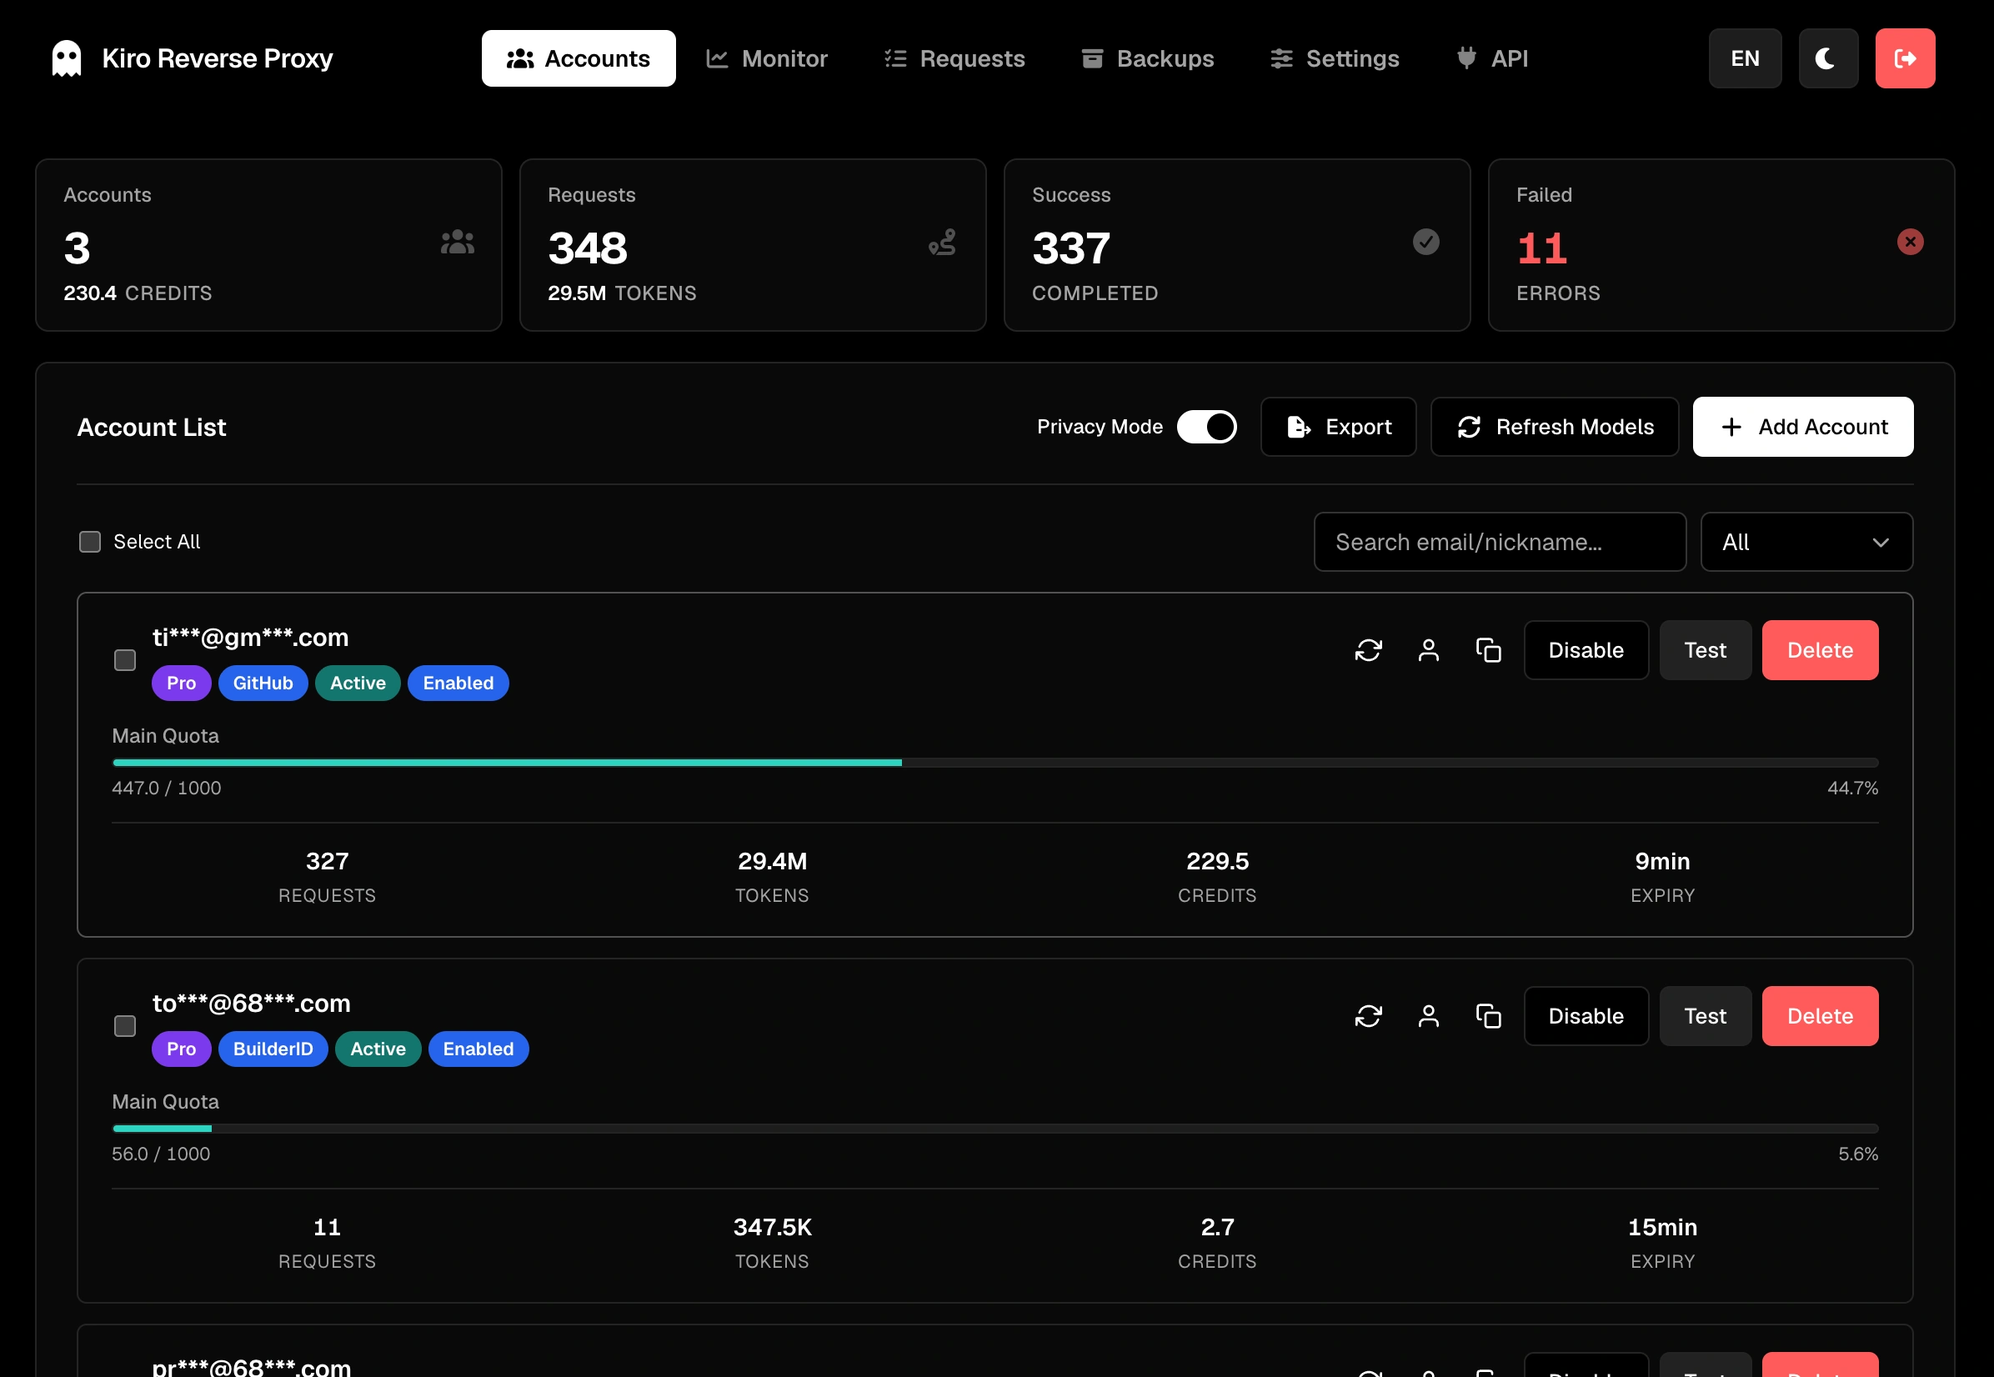
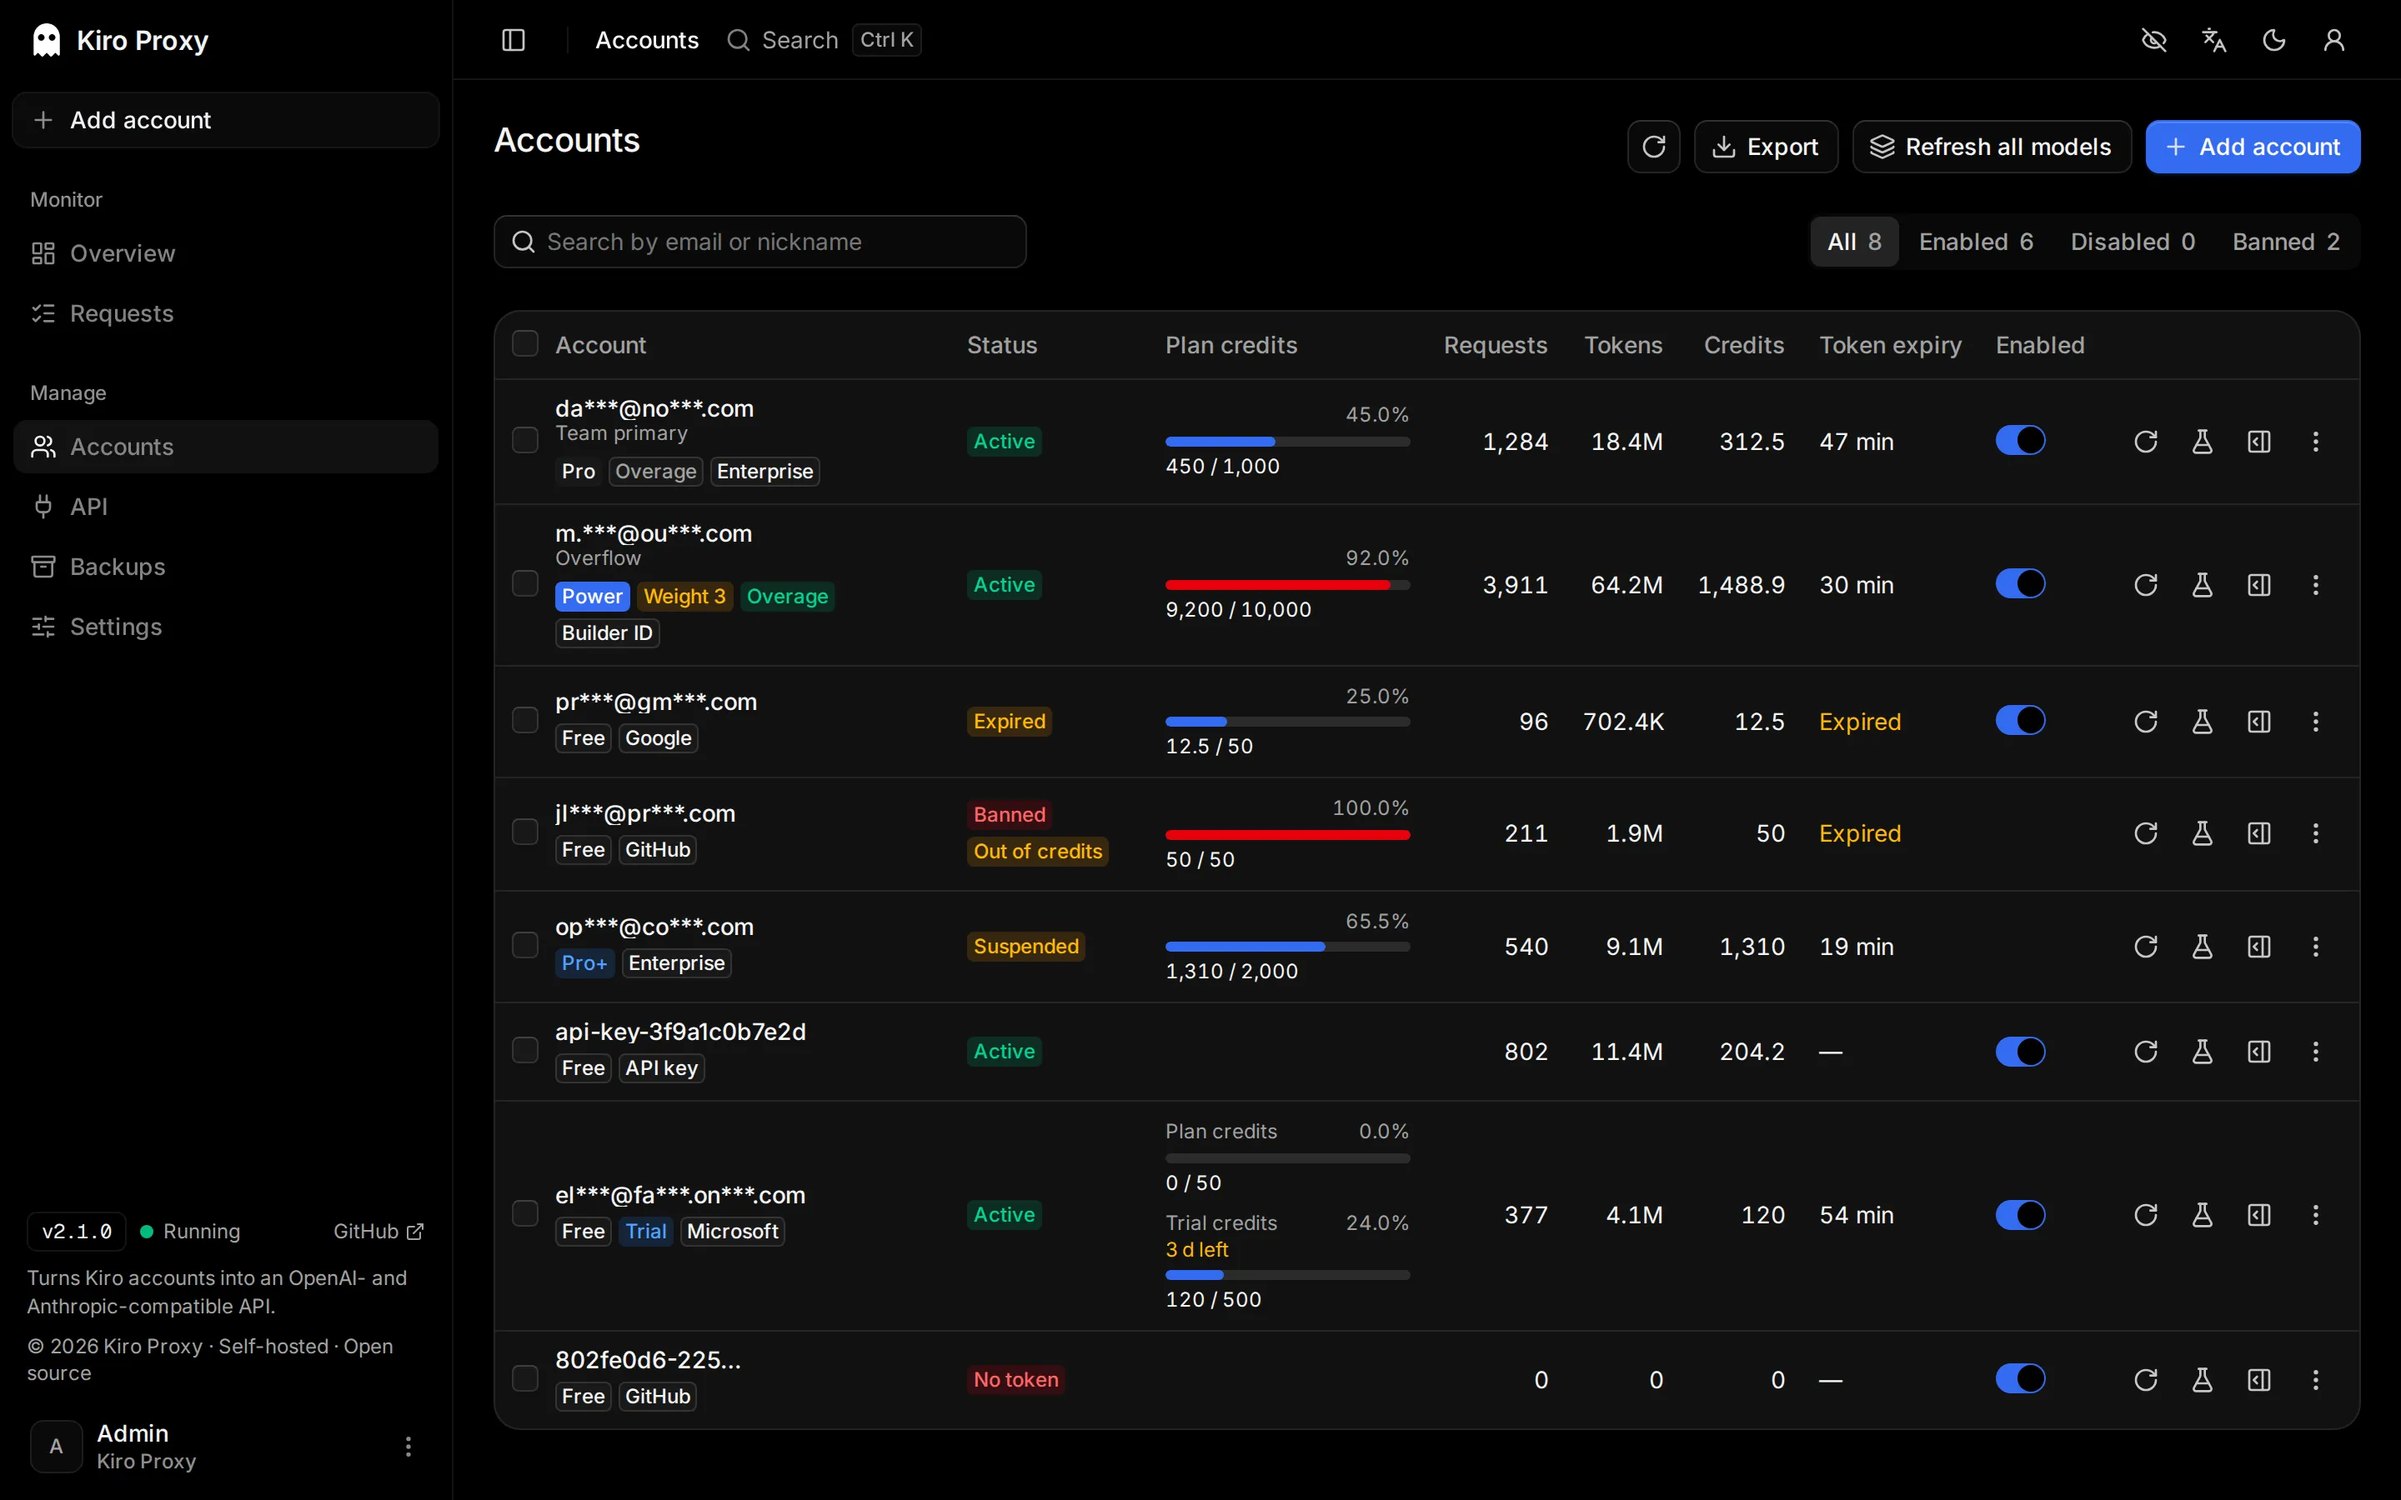
docs: refresh admin ui screenshots
Recapture every README screen from the new admin UI in mock mode
(1440x900 at 2x, light and dark). The overview pair replaces the old
monitor-*.webp images, and the captions follow the new screens.

Both READMEs now list the four UI languages: English, 简体中文,
Tiếng Việt and Português (Brasil).

diff --git a/README.md b/README.md
@@ -38,7 +38,7 @@
 1. Pools multiple Kiro accounts and load-balances requests with round-robin.
 2. Translates Anthropic `/v1/messages`, OpenAI `/v1/chat/completions`, and OpenAI `/v1/responses` calls to and from Kiro upstream.
 3. Refreshes access tokens automatically and streams Server-Sent Events end-to-end.
-4. Ships with a React admin panel, embedded in the binary, for account management, observability, and request audit.
+4. Ships with a React admin panel, embedded in the binary, for account management, observability, and request audit, in English, 简体中文, Tiếng Việt, and Português (Brasil).
 
 > [!IMPORTANT]
 > Single-binary local proxy. **Not** a hosted service, **not** affiliated with Amazon, AWS, or Kiro. You must own or be authorized to use every account you add to the pool.
@@ -56,14 +56,14 @@ If this project helps you, a Star would mean a lot.
         <source media="(prefers-color-scheme: dark)" srcset="screenshots/login-dark.webp">
         <img alt="Login" src="screenshots/login-light.webp" width="100%">
       </picture>
-      <br><sub><b>Login</b> — minimal, theme-aware sign-in</sub>
+      <br><sub><b>Login</b> — sign-in with theme and language switches</sub>
     </td>
     <td width="50%" align="center">
       <picture>
-        <source media="(prefers-color-scheme: dark)" srcset="screenshots/monitor-dark.webp">
-        <img alt="Overview" src="screenshots/monitor-light.webp" width="100%">
+        <source media="(prefers-color-scheme: dark)" srcset="screenshots/overview-dark.webp">
+        <img alt="Overview" src="screenshots/overview-light.webp" width="100%">
       </picture>
-      <br><sub><b>Overview</b> — live traffic, model mix and account health</sub>
+      <br><sub><b>Overview</b> — live traffic, credits and errors across accounts</sub>
     </td>
   </tr>
   <tr>
@@ -72,14 +72,14 @@ If this project helps you, a Star would mean a lot.
         <source media="(prefers-color-scheme: dark)" srcset="screenshots/accounts-dark.webp">
         <img alt="Accounts" src="screenshots/accounts-light.webp" width="100%">
       </picture>
-      <br><sub><b>Accounts</b> — batch actions, detail, test and export</sub>
+      <br><sub><b>Accounts</b> — plan credits, status filters, batch actions and export</sub>
     </td>
     <td width="50%" align="center">
       <picture>
         <source media="(prefers-color-scheme: dark)" srcset="screenshots/requests-dark.webp">
         <img alt="Requests" src="screenshots/requests-light.webp" width="100%">
       </picture>
-      <br><sub><b>Requests</b> — search, filters, sorting and a detail view</sub>
+      <br><sub><b>Requests</b> — search, status filters, sorting and a detail view</sub>
     </td>
   </tr>
   <tr>
@@ -88,7 +88,7 @@ If this project helps you, a Star would mean a lot.
         <source media="(prefers-color-scheme: dark)" srcset="screenshots/api-dark.webp">
         <img alt="API" src="screenshots/api-light.webp" width="100%">
       </picture>
-      <br><sub><b>API</b> — endpoints, API keys and client setup</sub>
+      <br><sub><b>API</b> — API access, per-client keys with limits, client setup</sub>
     </td>
     <td width="50%" align="center">
       <picture>
@@ -111,7 +111,7 @@ If this project helps you, a Star would mean a lot.
         <source media="(prefers-color-scheme: dark)" srcset="screenshots/settings-dark.webp">
         <img alt="Settings" src="screenshots/settings-light.webp" width="100%">
       </picture>
-      <br><sub><b>Settings</b> — thinking, model mappings, prompt filter, admin password</sub>
+      <br><sub><b>Settings</b> — usage, routing, auto-continue, thinking, model mappings</sub>
     </td>
   </tr>
 </table>
@@ -143,7 +143,7 @@ If this project helps you, a Star would mean a lot.
 - Requests log with search, status and API-key filters, sorting, a detail view, masked API keys, and SQLite-backed history.
 - API page with client API key management (optional custom key values, enable/disable, per-key token and credit limits, usage reset) and client setup snippets for curl, Claude Code, Codex, and the OpenAI SDK.
 - Settings for thinking, model mappings, outbound proxy, and more; Backups with a schedule and one-click restore.
-- Light, dark, and system theme; English and 简体中文.
+- Light, dark, and system theme; four UI languages: English, 简体中文, Tiếng Việt, and Português (Brasil).
 - Works from phones to desktops.
 
 ### 🌐 Networking

diff --git a/README_CN.md b/README_CN.md
@@ -38,7 +38,7 @@
 1. 多账号池化，按轮询方式分发请求。
 2. 在 Anthropic `/v1/messages`、OpenAI `/v1/chat/completions` 与 OpenAI `/v1/responses` 与 Kiro 上游之间双向翻译。
 3. 自动刷新访问令牌，端到端转发 Server-Sent Events 流。
-4. 自带内嵌于二进制文件的 React 管理面板，提供账号管理、可观测性与请求审计。
+4. 自带内嵌于二进制文件的 React 管理面板，提供账号管理、可观测性与请求审计，界面支持 English、简体中文、Tiếng Việt 与 Português (Brasil)。
 
 > [!IMPORTANT]
 > 单二进制本地代理。**非**托管服务，**不**隶属于 Amazon、AWS 或 Kiro。账号必须由你本人持有或经过合法授权方可加入账号池。
@@ -56,14 +56,14 @@
         <source media="(prefers-color-scheme: dark)" srcset="screenshots/login-dark.webp">
         <img alt="登录" src="screenshots/login-light.webp" width="100%">
       </picture>
-      <br><sub><b>登录</b> — 简洁、随主题切换</sub>
+      <br><sub><b>登录</b> — 登录页可切换主题与界面语言</sub>
     </td>
     <td width="50%" align="center">
       <picture>
-        <source media="(prefers-color-scheme: dark)" srcset="screenshots/monitor-dark.webp">
-        <img alt="概览" src="screenshots/monitor-light.webp" width="100%">
+        <source media="(prefers-color-scheme: dark)" srcset="screenshots/overview-dark.webp">
+        <img alt="概览" src="screenshots/overview-light.webp" width="100%">
       </picture>
-      <br><sub><b>概览</b> — 实时流量、模型分布与账号健康状况</sub>
+      <br><sub><b>概览</b> — 各账号的实时流量、Credits 与错误</sub>
     </td>
   </tr>
   <tr>
@@ -72,14 +72,14 @@
         <source media="(prefers-color-scheme: dark)" srcset="screenshots/accounts-dark.webp">
         <img alt="账号" src="screenshots/accounts-light.webp" width="100%">
       </picture>
-      <br><sub><b>账号</b> — 批量操作、详情、测试与导出</sub>
+      <br><sub><b>账号</b> — 套餐 Credits、状态筛选、批量操作与导出</sub>
     </td>
     <td width="50%" align="center">
       <picture>
         <source media="(prefers-color-scheme: dark)" srcset="screenshots/requests-dark.webp">
         <img alt="请求" src="screenshots/requests-light.webp" width="100%">
       </picture>
-      <br><sub><b>请求</b> — 搜索、筛选、排序与详情视图</sub>
+      <br><sub><b>请求</b> — 搜索、状态筛选、排序与详情视图</sub>
     </td>
   </tr>
   <tr>
@@ -88,7 +88,7 @@
         <source media="(prefers-color-scheme: dark)" srcset="screenshots/api-dark.webp">
         <img alt="接口" src="screenshots/api-light.webp" width="100%">
       </picture>
-      <br><sub><b>接口</b> — 接口地址、API Key 与客户端配置</sub>
+      <br><sub><b>接口</b> — API 访问控制、带限额的客户端 Key 与接入配置</sub>
     </td>
     <td width="50%" align="center">
       <picture>
@@ -111,7 +111,7 @@
         <source media="(prefers-color-scheme: dark)" srcset="screenshots/settings-dark.webp">
         <img alt="设置" src="screenshots/settings-light.webp" width="100%">
       </picture>
-      <br><sub><b>设置</b> — 思考、模型映射、提示词过滤、管理员密码</sub>
+      <br><sub><b>设置</b> — 用量、账号路由、自动续写、思考、模型映射</sub>
     </td>
   </tr>
 </table>
@@ -143,7 +143,7 @@
 - 请求日志支持搜索、状态/API Key 筛选、排序、详情视图、脱敏 API Key，SQLite 持久化存档。
 - 接口页管理客户端 API Key（可自定义 Key 值、启用/禁用、独立 Token/Credits 限额、重置用量），并提供 curl、Claude Code、Codex 与 OpenAI SDK 的接入示例。
 - 设置页涵盖思考、模型映射、出站代理等；备份页支持定时备份与一键恢复。
-- 浅色 / 深色 / 跟随系统主题；支持英文与简体中文。
+- 浅色 / 深色 / 跟随系统主题；界面支持四种语言：English、简体中文、Tiếng Việt 与 Português (Brasil)。
 - 从手机到桌面均可流畅使用。
 
 ### 🌐 网络
